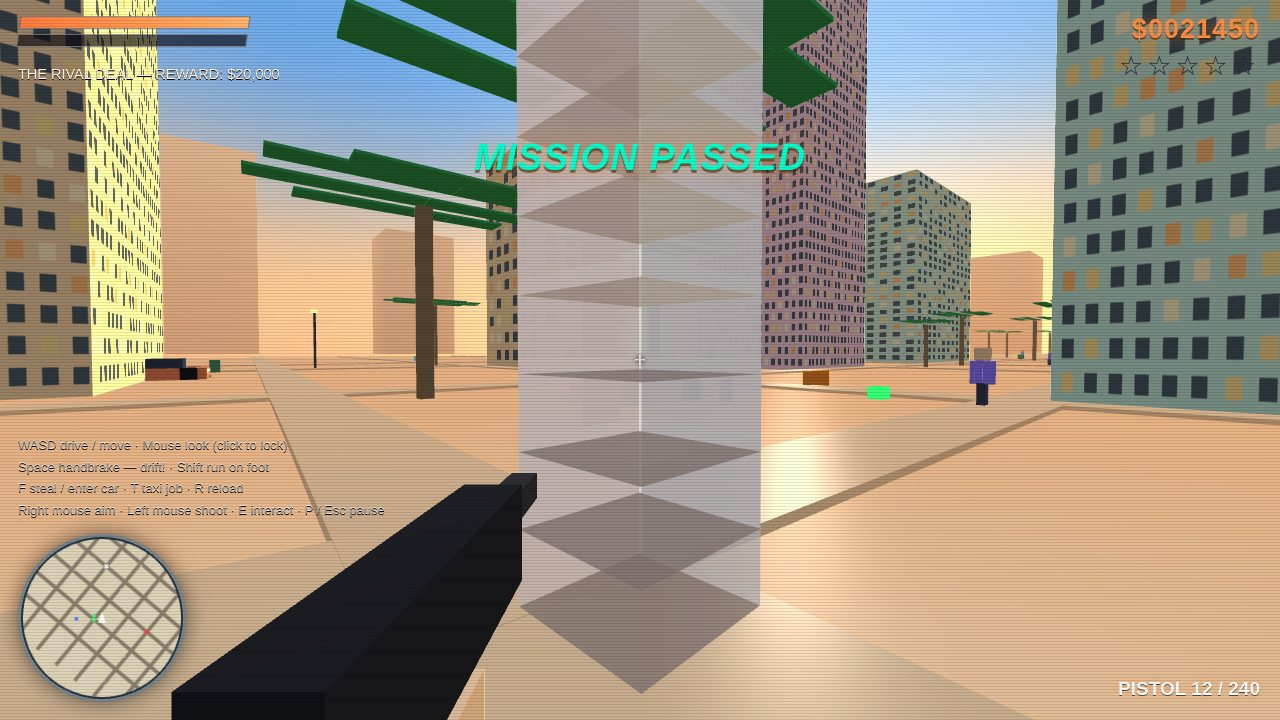
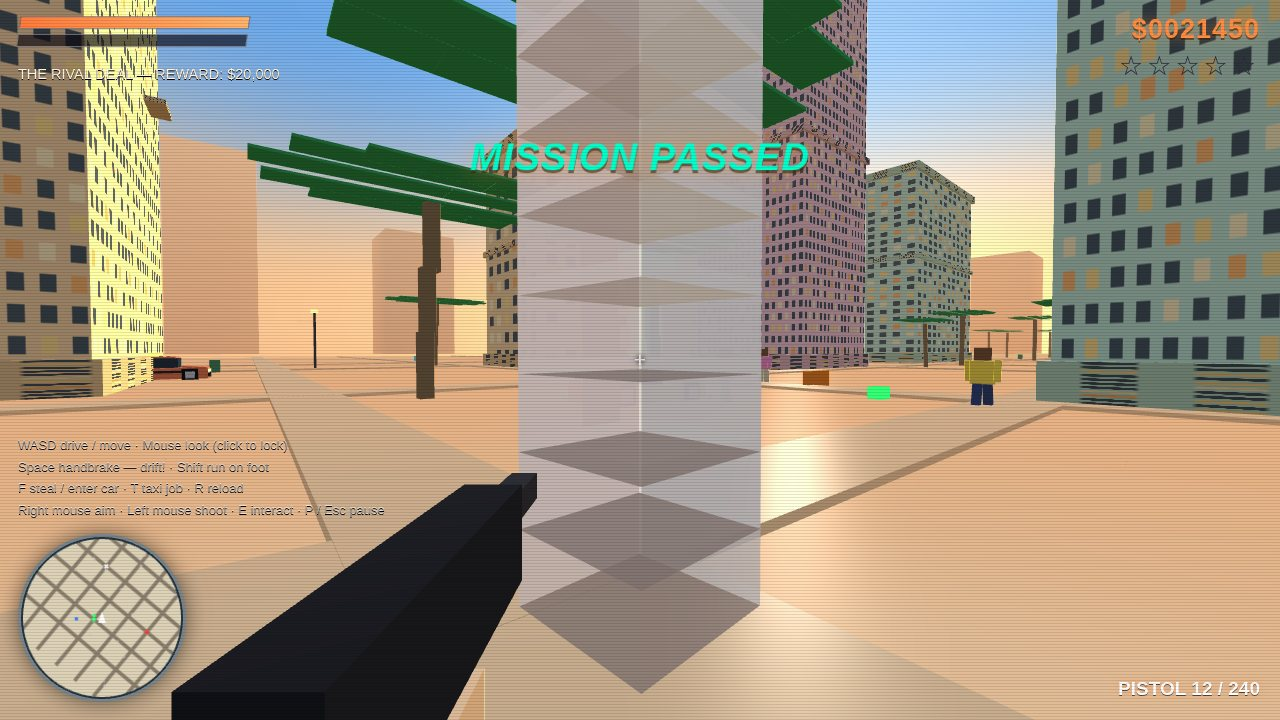
Modelling pass: four body styles built from parts (sport wedge coupe w/ spoiler + wide rear wheels, sedan 3-box w/ sloped hood + trunk lip, taxi checker band + roof sign, police black/white w/ door band, push bar, split light bar), all with glass cabins, hub discs, bumpers, emissive lights; peds get

diff --git a/game/src/main.js b/game/src/main.js
@@ -35,7 +35,20 @@ const audio = new AudioEngine();
 function buildCityMeshes(s) {
   const city = s.city;
   const plain = new Builder(), texB = [new Builder(), new Builder(), new Builder(), new Builder()], road = new Builder(), walk = new Builder();
-  for (const b of city.buildings) texB[b.tex].box(b.x, 0, b.z, b.w, b.h, b.d, [1, 1, 1], Math.max(1, Math.round(b.h / 14)));
+  city.buildings.forEach((b, bi) => {
+    const B = texB[b.tex];
+    B.box(b.x, 0, b.z, b.w, b.h, b.d, [1, 1, 1], Math.max(1, Math.round(b.h / 14)));
+    // Architectural relief (same facade texture, tinted slightly darker):
+    B.box(b.x, b.h, b.z, b.w + 0.8, 1.0, b.d + 0.8, [0.92, 0.90, 0.86], 1);              // parapet cap
+    B.box(b.x, b.h * 0.55, b.z, b.w + 0.5, 0.55, b.d + 0.5, [0.94, 0.92, 0.88], 1);      // cornice band
+    B.box(b.x, 0, b.z, b.w + 0.6, 1.4, b.d + 0.6, [0.9, 0.88, 0.84], 1);                // podium base
+    if (bi % 3 !== 0) { // balconies on the +x face, 2-4 slabs
+      const n = 2 + (bi % 3);
+      for (let k = 0; k < n; k++) {
+        B.box(b.x + b.w / 2 + 0.45, b.h * (0.3 + 0.18 * k), b.z - b.d / 4 + (k % 2) * b.d / 2, 0.9, 0.28, 2.6, [0.88, 0.86, 0.82], 1);
+      }
+    }
+  });
   const centers = roadCenters();
   for (const c of centers) {
     road.quad([c - ROAD / 2, 0.01, -CITY_HALF - 40], [c + ROAD / 2, 0.01, -CITY_HALF - 40], [c + ROAD / 2, 0.01, CITY_HALF + 40], [c - ROAD / 2, 0.01, CITY_HALF + 40], [0, 1, 0], [0.92, 0.90, 0.87], 30);
@@ -59,11 +72,16 @@ function buildCityMeshes(s) {
   plain.box(CITY_HALF + 120, -0.4, 0, 190, 0.1, (CITY_HALF + 60) * 2, [0.13, 0.72, 0.68]);
   plain.box(CITY_HALF + 16, -0.02, 0, 26, 0.12, (CITY_HALF + 40) * 2, [0.93, 0.84, 0.62]);
   for (const pm of city.palms) {
-    const sc = pm.s || 1;
-    plain.box(pm.x, 0, pm.z, 0.34 * sc, 4.8 * sc, 0.34 * sc, [0.52, 0.42, 0.30]);
-    for (let i = 0; i < 7; i++) {
-      const a = i / 7 * Math.PI * 2;
-      plain.box(pm.x + Math.sin(a) * 1.7 * sc, 4.8 * sc + 0.3, pm.z + Math.cos(a) * 1.7 * sc, 3.6 * sc, 0.08, 0.75 * sc, [0.18, 0.62, 0.33]);
+    const sc = pm.s || 1, lean = pm.lean || 0.1;
+    // Curved trunk: 3 stacked segments leaning progressively.
+    let tx = pm.x, tz = pm.z;
+    for (let seg = 0; seg < 3; seg++) {
+      plain.box(tx, seg * 1.6 * sc, tz, 0.34 * sc, 1.7 * sc, 0.34 * sc, [0.52, 0.42, 0.30]);
+      tx += lean * (seg + 1) * 0.55 * sc; tz += lean * 0.3 * sc;
+    }
+    for (let i = 0; i < 9; i++) {
+      const a = i / 9 * Math.PI * 2;
+      plain.box(tx + Math.sin(a) * 1.8 * sc, 4.9 * sc + 0.3, tz + Math.cos(a) * 1.8 * sc, 3.8 * sc, 0.08, 0.8 * sc, [0.18, 0.62, 0.33]);
     }
   }
   for (const l of city.lights) {
@@ -128,29 +146,79 @@ function drawCar(s, car, t, interior = false) {
   R.box(x, 0.16, z, ry, 2.6, 0.06, 4.4, [0.03, 0.02, 0.05], { alpha: 0.3 });
   R.box(x, 0.18, z, ry, 2.3, 0.05, 4.0, [0.04, 0.03, 0.07], { alpha: 0.35 });
   const fx = Math.sin(ry), fz = Math.cos(ry), rx = Math.cos(ry), rz = -Math.sin(ry);
+  const style = car.kind === 'cop' ? 'police' : (car.style || 'sedan');
   if (car.kind === 'cop') {
     const ph = Math.floor(t * 5 + car.id) % 2 === 0;
     R.box(x + fx * 0.5, 0.1, z + fz * 0.5, ry, 3.4, 0.04, 5.2, ph ? [1, 0.1, 0.15] : [0.2, 0.4, 1], { alpha: 0.20 });
   }
   const body = car.kind === 'dead' ? [0.15, 0.14, 0.16] : car.color;
-  R.box(x, 0.35, z, ry, 2.0, 0.75, 4.2, body, { pitch, roll });
-  if (!interior) R.box(x, 0.95, z, ry, 1.8, 0.62, 2.2, car.kind === 'cop' ? [0.12, 0.12, 0.14] : [0.15, 0.2, 0.28], { pitch, roll });
-  if (car.kind === 'cop') {
-    const ph = Math.floor(t * 5 + car.id) % 2 === 0;
-    R.box(x, 1.35, z, ry, 1.3, 0.22, 0.5, ph ? [1, 0.15, 0.2] : [0.25, 0.45, 1], { emissive: true, pitch, roll });
-    R.box(x, 0.62, z, ry, 2.02, 0.34, 4.22, [0.1, 0.1, 0.12], { pitch, roll });
-  }
+  const glass = [0.13, 0.18, 0.24], dark = [0.08, 0.08, 0.1];
+  // P(f, r, yCentre, w, h, d, color, opts): part placed in car space.
+  const P = (f, r, y, w, h, d, color, o = {}) => R.box(x + fx * f + rx * r, y, z + fz * f + rz * r, ry, w, h, d, color, { pitch, roll, ...o });
   const steerVis = car === s.player.inCar && car.phys ? car.phys.steerAngle : (car.steer || 0) * 0.4;
   car._spin = (car._spin || 0) + (car.speed || 0) * 0.09;
-  for (const [sx, sz, front] of [[-1.02, 1.35, 1], [1.02, 1.35, 1], [-1.02, -1.35, 0], [1.02, -1.35, 0]]) {
-    const wx = x + rx * sx + fx * sz, wz = z + rz * sx + fz * sz;
-    R.box(wx, 0.38, wz, ry + (front ? steerVis : 0), 0.28, 0.72, 0.72, [0.06, 0.06, 0.08], { roll: car._spin });
-  }
+  const wheels = (rF, rR, wdt, fOff, rOff) => {
+    for (const [sx, sz, front] of [[-1, fOff, 1], [1, fOff, 1], [-1, -rOff, 0], [1, -rOff, 0]]) {
+      const rr = front ? rF : rR;
+      const wx = x + rx * sx * 0.92 + fx * sz, wz = z + rz * sx * 0.92 + fz * sz;
+      R.box(wx, rr, wz, ry + (front ? steerVis : 0), wdt, rr * 2, rr * 2, [0.05, 0.05, 0.07], { roll: car._spin });
+      R.box(wx + rx * sx * 0.16, rr, wz + rz * sx * 0.16, ry + (front ? steerVis : 0), 0.05, rr * 1.15, rr * 1.15, [0.75, 0.76, 0.8], { roll: car._spin });
+    }
+  };
   const hl = Math.sin(t * 47 + car.id) > 0 ? [1, 0.95, 0.75] : [0.9, 0.85, 0.6];
-  R.box(x + fx * 2.12 - rx * 0.6, 0.55, z + fz * 2.12 - rz * 0.6, ry, 0.4, 0.2, 0.1, hl, { emissive: true });
-  R.box(x + fx * 2.12 + rx * 0.6, 0.55, z + fz * 2.12 + rz * 0.6, ry, 0.4, 0.2, 0.1, hl, { emissive: true });
-  R.box(x - fx * 2.12 - rx * 0.6, 0.55, z - fz * 2.12 - rz * 0.6, ry, 0.4, 0.2, 0.1, [1, 0.15, 0.2], { emissive: true });
-  R.box(x - fx * 2.12 + rx * 0.6, 0.55, z - fz * 2.12 + rz * 0.6, ry, 0.4, 0.2, 0.1, [1, 0.15, 0.2], { emissive: true });
+  if (style === 'sport') {
+    P(0, 0, 0.36, 1.95, 0.52, 4.4, body);                    // low main body
+    P(1.62, 0, 0.60, 1.85, 0.30, 1.25, body, { pitch: pitch + 0.14 }); // wedge nose
+    if (!interior) {
+      P(-0.55, 0, 0.86, 1.62, 0.46, 1.7, glass);             // rear-set cabin
+      P(-0.55, 0, 1.12, 1.5, 0.07, 1.4, body);               // roof skin
+    }
+    P(-1.72, 0, 0.70, 1.85, 0.18, 0.9, body);                // rear deck
+    P(-2.02, -0.6, 0.92, 0.08, 0.2, 0.3, dark);              // spoiler strut L
+    P(-2.02, 0.6, 0.92, 0.08, 0.2, 0.3, dark);               // spoiler strut R
+    P(-2.06, 0, 1.05, 1.9, 0.06, 0.42, body);                // spoiler blade
+    wheels(0.33, 0.37, 0.30, 1.42, 1.42);
+    P(2.18, -0.62, 0.48, 0.42, 0.13, 0.08, hl, { emissive: true });
+    P(2.18, 0.62, 0.48, 0.42, 0.13, 0.08, hl, { emissive: true });
+    P(-2.18, 0, 0.58, 1.7, 0.12, 0.08, [1, 0.15, 0.2], { emissive: true }); // full-width tail bar
+  } else if (style === 'police') {
+    const white = [0.94, 0.94, 0.96], black = [0.07, 0.07, 0.09];
+    P(0, 0, 0.42, 1.9, 0.62, 4.3, white);
+    P(0.1, 0, 0.44, 1.93, 0.42, 2.3, black);                 // black door band
+    P(1.58, 0, 0.76, 1.8, 0.1, 1.05, white, { pitch: pitch + 0.08 }); // hood slope
+    if (!interior) {
+      P(-0.15, 0, 1.02, 1.7, 0.55, 2.1, glass);
+      P(-0.15, 0, 1.33, 1.6, 0.08, 1.9, white);
+    }
+    P(2.28, 0, 0.45, 0.35, 0.5, 0.18, black);                // push bar
+    const ph = Math.floor(t * 5 + car.id) % 2 === 0;
+    P(0, -0.34, 1.46, 0.62, 0.16, 0.42, ph ? [1, 0.12, 0.18] : [0.3, 0.3, 0.35], { emissive: true }); // light bar red
+    P(0, 0.34, 1.46, 0.62, 0.16, 0.42, ph ? [0.3, 0.3, 0.35] : [0.25, 0.45, 1], { emissive: true });  // light bar blue
+    wheels(0.34, 0.34, 0.28, 1.4, 1.4);
+    P(2.16, -0.6, 0.55, 0.4, 0.2, 0.1, hl, { emissive: true });
+    P(2.16, 0.6, 0.55, 0.4, 0.2, 0.1, hl, { emissive: true });
+    P(-2.16, -0.6, 0.55, 0.4, 0.2, 0.1, [1, 0.15, 0.2], { emissive: true });
+    P(-2.16, 0.6, 0.55, 0.4, 0.2, 0.1, [1, 0.15, 0.2], { emissive: true });
+  } else { // sedan + taxi
+    P(0, 0, 0.42, 1.9, 0.62, 4.3, body);
+    P(1.58, 0, 0.76, 1.8, 0.1, 1.05, body, { pitch: pitch + 0.08 }); // sloped hood
+    P(-1.98, 0, 0.78, 1.8, 0.12, 0.45, body);                // trunk lip
+    if (!interior) {
+      P(-0.15, 0, 1.02, 1.7, 0.55, 2.1, glass);
+      P(-0.15, 0, 1.33, 1.6, 0.08, 1.9, body);
+    }
+    P(2.14, 0, 0.32, 1.86, 0.22, 0.14, dark);                // front bumper
+    P(-2.14, 0, 0.32, 1.86, 0.22, 0.14, dark);               // rear bumper
+    if (style === 'taxi') {
+      P(0, 0, 0.52, 1.93, 0.13, 3.1, [0.12, 0.12, 0.14]);    // checker band
+      P(-0.15, 0, 1.48, 0.72, 0.2, 0.34, [1, 0.85, 0.4], { emissive: true }); // roof sign
+    }
+    wheels(0.34, 0.34, 0.28, 1.4, 1.4);
+    P(2.16, -0.6, 0.55, 0.4, 0.2, 0.1, hl, { emissive: true });
+    P(2.16, 0.6, 0.55, 0.4, 0.2, 0.1, hl, { emissive: true });
+    P(-2.16, -0.6, 0.55, 0.4, 0.2, 0.1, [1, 0.15, 0.2], { emissive: true });
+    P(-2.16, 0.6, 0.55, 0.4, 0.2, 0.1, [1, 0.15, 0.2], { emissive: true });
+  }
   if ((car.speed || 0) > 1 || car === s.player.inCar) {
     R.box(x + fx * 3.4, 0.35, z + fz * 3.4, ry, 2.6, 0.5, 2.6, [1, 0.95, 0.7], { alpha: 0.08 });
   }
@@ -199,6 +267,18 @@ function drawInterior(s, car) {
     q = at(0.9, sd * 1.03, 1.3);
     R.box(q[0], q[1], q[2], car.ry, 0.24, 0.12, 0.02, [0.75, 0.85, 0.95], { emissive: true });
   }
+  // centre console + gear knob between the seats
+  q = at(0.35, 0.18, 0.42);
+  R.box(q[0], q[1], q[2], car.ry, 0.42, 0.3, 1.1, [0.11, 0.11, 0.14]);
+  q = at(0.55, 0.18, 0.6);
+  R.box(q[0], q[1], q[2], car.ry, 0.07, 0.16, 0.07, [0.2, 0.2, 0.24]);
+  // rear-view mirror with a simple two-tone reflection (sky over road)
+  q = at(1.05, 0, 1.52);
+  R.box(q[0], q[1], q[2], car.ry, 0.62, 0.2, 0.05, [0.07, 0.07, 0.09]);
+  q = at(1.02, 0, 1.565);
+  R.box(q[0], q[1], q[2], car.ry, 0.54, 0.075, 0.02, [0.62, 0.78, 0.94], { emissive: true });
+  q = at(1.02, 0, 1.475);
+  R.box(q[0], q[1], q[2], car.ry, 0.54, 0.075, 0.02, [0.42, 0.42, 0.46], { emissive: true });
   q = at(1.12, 0, 1.66);
   R.box(q[0], q[1], q[2], car.ry, 2.05, 0.09, 0.3, [0.08, 0.08, 0.11]);
 }
@@ -215,19 +295,23 @@ function drawGunView(s, eye, viewYaw, viewPitch, lowered = false) {
   if (!aim) R.box(gx - d[0] * 0.22 + rx * 0.1, gy - 0.3, gz - d[2] * 0.22 + rz * 0.1, viewYaw, 0.13, 0.13, 0.42, [0.97, 0.87, 0.72], { pitch: viewPitch + 0.5 });
 }
 function drawPerson(s, x, z, ry, color, o = {}) {
+  // 7 parts: shadow, 2 legs (pants), torso (shirt), 2 arms (sleeves, swinging
+  // counter-phase to the legs), head (skin tone). Plus optional gun.
   const fx = Math.sin(ry), fz = Math.cos(ry);
+  const rx = Math.cos(ry), rz = -Math.sin(ry);
   R.box(x, 0.02, z, ry, 0.8, 0.04, 0.8, [0.03, 0.02, 0.05], { alpha: 0.3 });
   const ph = o.walkPhase || 0;
   const sw = Math.sin(ph) * 0.3;
   if (o.dead) { R.box(x, 0.12, z, ry, 0.55, 0.25, 1.6, color); return; }
-  R.box(x - fx * sw * 0.4, 0.4, z - fz * sw * 0.4, ry, 0.2, 0.8, 0.24, [0.2, 0.2, 0.3]);
-  R.box(x + fx * sw * 0.4, 0.4, z + fz * sw * 0.4, ry, 0.2, 0.8, 0.24, [0.25, 0.25, 0.35]);
+  const pants = o.pants || [0.22, 0.24, 0.34], skin = o.skin || [0.92, 0.76, 0.6];
+  R.box(x - fx * sw * 0.4 - rx * 0.11, 0.4, z - fz * sw * 0.4 - rz * 0.11, ry, 0.19, 0.8, 0.23, pants, { pitch: sw * 0.7 });
+  R.box(x + fx * sw * 0.4 + rx * 0.11, 0.4, z + fz * sw * 0.4 + rz * 0.11, ry, 0.19, 0.8, 0.23, pants, { pitch: -sw * 0.7 });
   R.box(x, 1.1, z, ry, 0.55, 0.65, 0.3, color);
   const armY = o.handsUp ? 1.95 : 1.15;
-  const armP = o.handsUp ? 0.4 : sw * 0.5;
-  R.box(x - 0.36, armY, z, ry, 0.14, 0.6, 0.16, color, { pitch: armP });
-  R.box(x + 0.36, armY, z, ry, 0.14, 0.6, 0.16, color, { pitch: -armP });
-  R.box(x, 1.62, z, ry, 0.34, 0.36, 0.34, [0.92, 0.76, 0.6]);
+  const armP = o.handsUp ? 0.4 : sw * 0.55;
+  R.box(x - rx * 0.36 + fx * sw * 0.18, armY, z - rz * 0.36 + fz * sw * 0.18, ry, 0.14, 0.6, 0.16, color, { pitch: -armP });
+  R.box(x + rx * 0.36 - fx * sw * 0.18, armY, z + rz * 0.36 - fz * sw * 0.18, ry, 0.14, 0.6, 0.16, color, { pitch: armP });
+  R.box(x, 1.62, z, ry, 0.34, 0.36, 0.34, skin);
   if (o.gun) R.box(x + fx * 0.4, 1.25, z + fz * 0.4, ry, 0.08, 0.12, 0.45, [0.08, 0.08, 0.1]);
 }
 
@@ -268,7 +352,7 @@ function render(s, t) {
   for (const c of s.cops) if (c !== p.inCar) drawCar(s, c, t);
   for (const ped of s.peds) {
     ped._phase = (ped._phase || 0) + (ped.state === 'dead' ? 0 : (ped.state === 'flee' ? 11 : 6) * lastDt * (ped.speed / 1.4));
-    drawPerson(s, ped.x, ped.z, ped.ry, ped.color, { walkPhase: ped._phase, dead: ped.state === 'dead', handsUp: ped.state === 'handsup' || ped.state === 'robbed' });
+    drawPerson(s, ped.x, ped.z, ped.ry, ped.color, { walkPhase: ped._phase, dead: ped.state === 'dead', handsUp: ped.state === 'handsup' || ped.state === 'robbed', pants: ped.pants, skin: ped.skin });
   }
   drawParticles();
   if (p.inCar) drawInterior(s, p.inCar);

diff --git a/game/src/game/pedestrians.js b/game/src/game/pedestrians.js
@@ -10,6 +10,13 @@ export const PED_COLORS = [
   [0.30, 0.55, 0.98], [0.90, 0.30, 0.45], [0.35, 0.85, 0.65], [0.95, 0.75, 0.55],
 ];
 
+export const PANTS = [
+  [0.20, 0.26, 0.45], [0.85, 0.80, 0.68], [0.16, 0.16, 0.18], [0.55, 0.42, 0.30], [0.92, 0.92, 0.90], [0.35, 0.45, 0.30],
+];
+export const SKINS = [
+  [0.98, 0.80, 0.64], [0.88, 0.66, 0.48], [0.68, 0.47, 0.32], [0.48, 0.32, 0.21],
+];
+
 export function spawnPed(s, rng) {
   const centers = roadCenters();
   const road = centers[rng.int(0, centers.length - 1)];
@@ -21,6 +28,8 @@ export function spawnPed(s, rng) {
     ry: rng.range(0, Math.PI * 2), speed: rng.range(1.2, 1.6),
     horiz, road, side, dir: rng.chance(0.5) ? 1 : -1,
     color: PED_COLORS[rng.int(0, PED_COLORS.length - 1)],
+    pants: PANTS[rng.int(0, PANTS.length - 1)],
+    skin: SKINS[rng.int(0, SKINS.length - 1)],
     state: 'walk', t: rng.range(2, 6), cash: rng.int(50, 250), robbed: false, aimTime: 0,
   };
 }

diff --git a/game/src/game/state.js b/game/src/game/state.js
@@ -26,6 +26,13 @@ export function createState(seed, saved) {
   s.wantedAPI = { add: wanted.addWanted };
   s.playerAPI = { hurt: player.hurt };
   s.cars = [...spawnTraffic(rng, 16), ...spawnParked(rng, 10)];
+  // Body styles: taxis by colour, a share of sports coupes, rest sedans.
+  for (const c of s.cars) {
+    if (c.color[0] > 0.9 && c.color[1] > 0.7 && c.color[2] < 0.3) c.style = 'taxi';
+    else if (rng.chance(0.24)) c.style = 'sport';
+  }
+  const firstParked = s.cars.find(c => c.kind === 'parked');
+  if (firstParked) firstParked.style = 'sport';
   for (let i = 0; i < 30; i++) s.peds.push(spawnPed(s, rng));
   if (saved) {
     if (typeof saved.cash === 'number') s.cash = saved.cash;

diff --git a/game/src/game/traffic.js b/game/src/game/traffic.js
@@ -24,6 +24,7 @@ export function spawnTraffic(rng, n = 16) {
       speed: 0, targetSpeed: rng.range(9.5, 12.5), horiz, road, dir,
       color: rng.chance(0.14) ? [0.98, 0.78, 0.15] : CAR_COLORS[rng.int(0, CAR_COLORS.length - 1)], // some taxis
       hp: 100, smoke: 0, driver: true, stopped: 0,
+      style: 'sedan',
     });
   }
   return cars;
@@ -42,6 +43,7 @@ export function spawnParked(rng, n = 10) {
       ry: horiz ? Math.PI / 2 : 0, speed: 0, targetSpeed: 11,
       horiz, road, dir: 1, color: CAR_COLORS[rng.int(0, CAR_COLORS.length - 1)],
       hp: 100, smoke: 0, driver: false, stopped: 0,
+      style: 'sedan',
     });
   }
   return cars;
